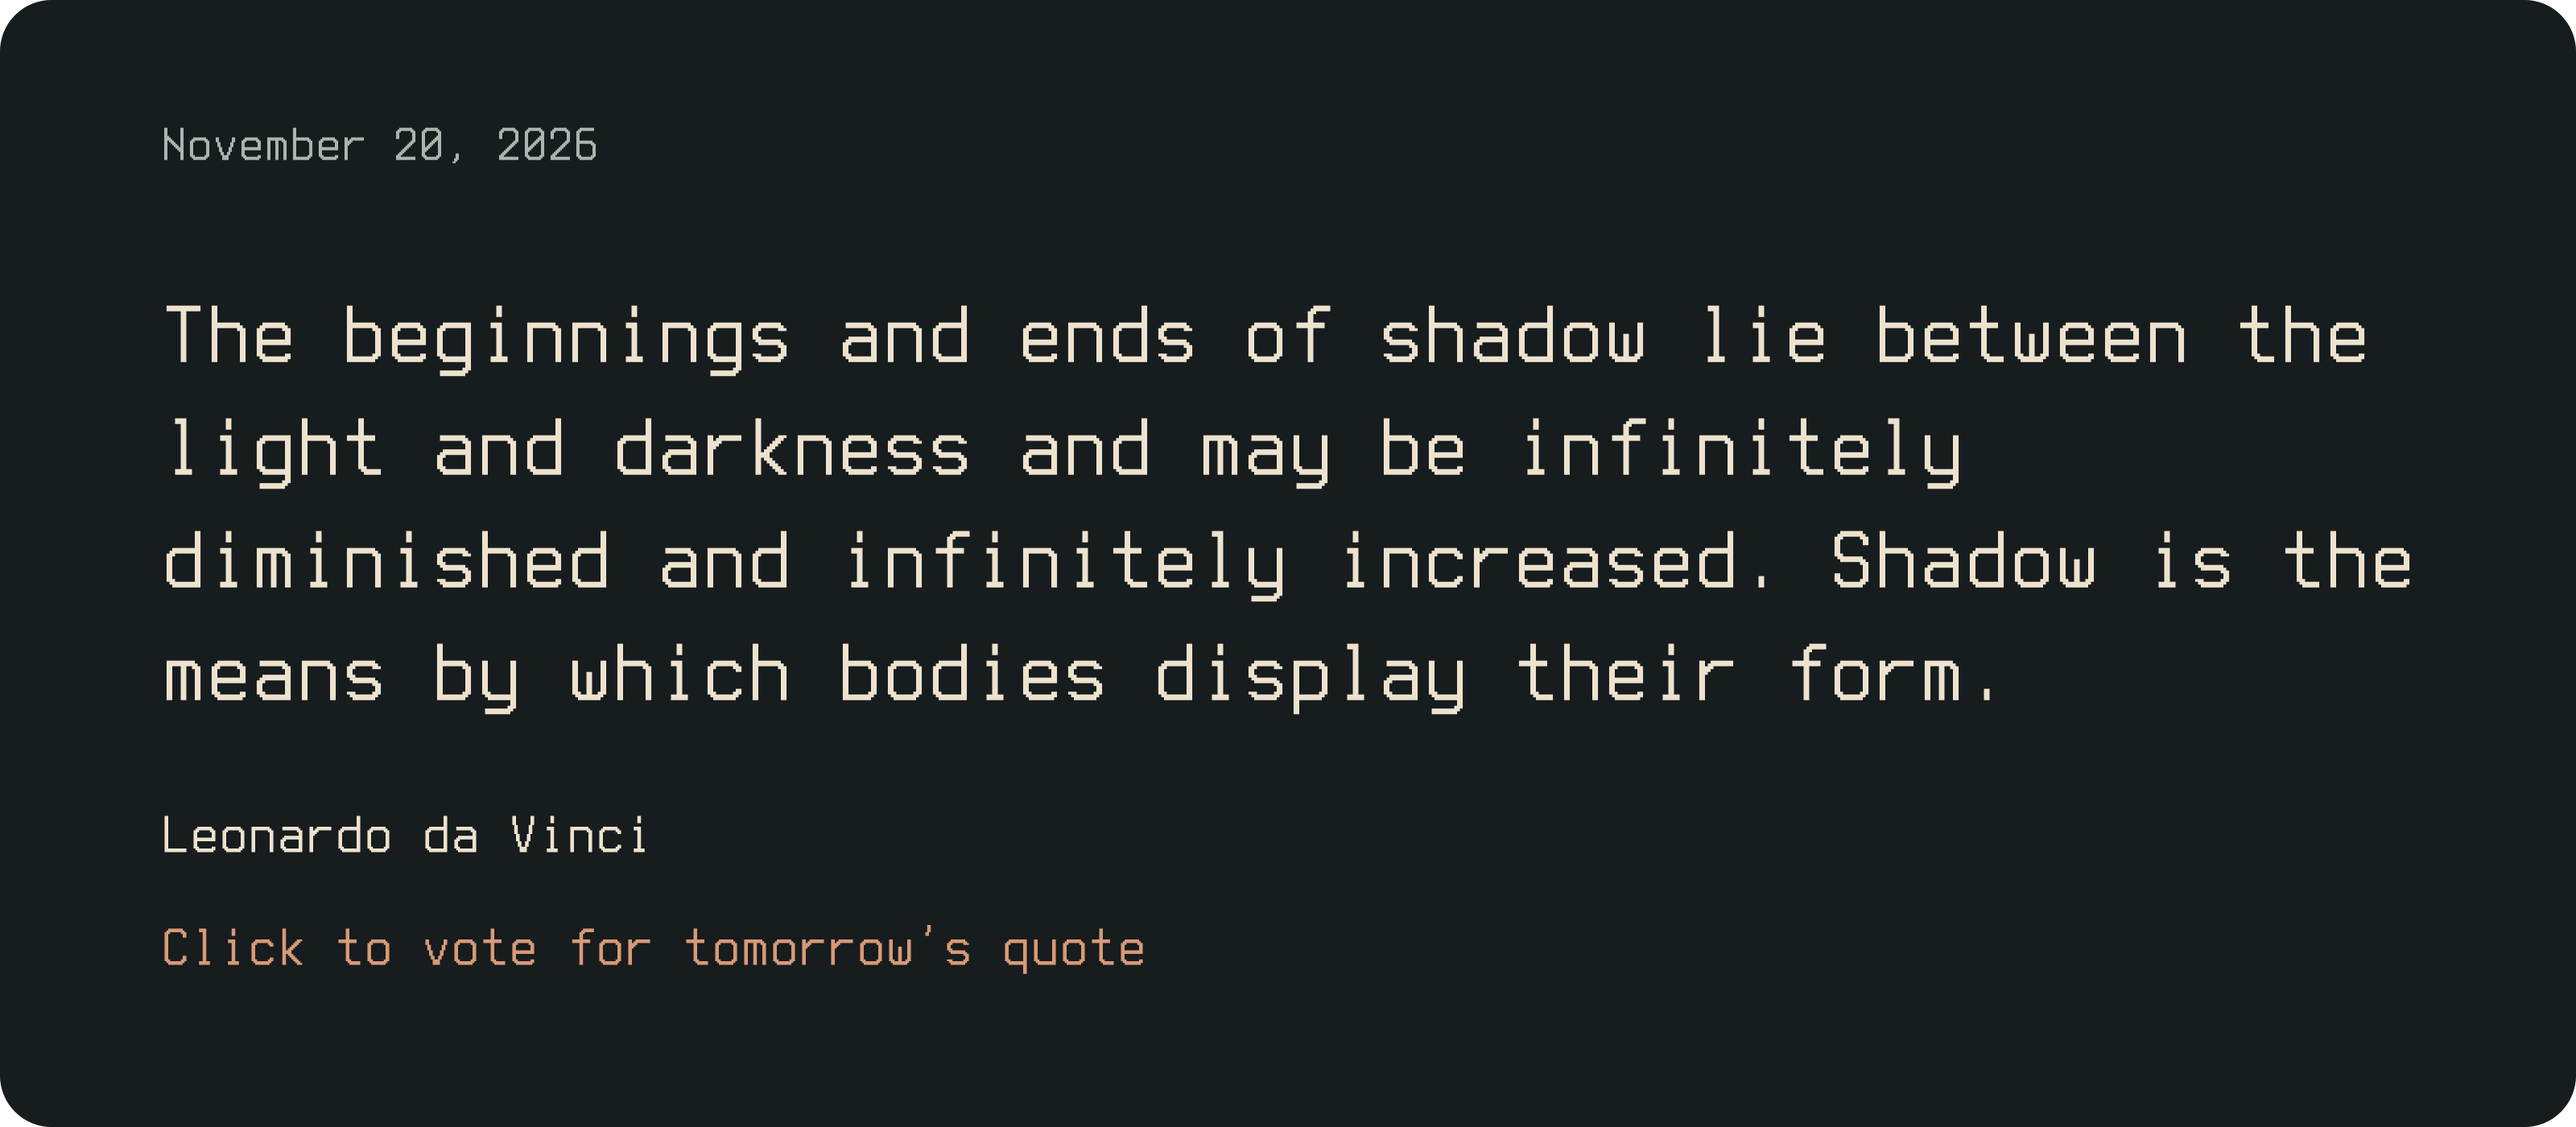
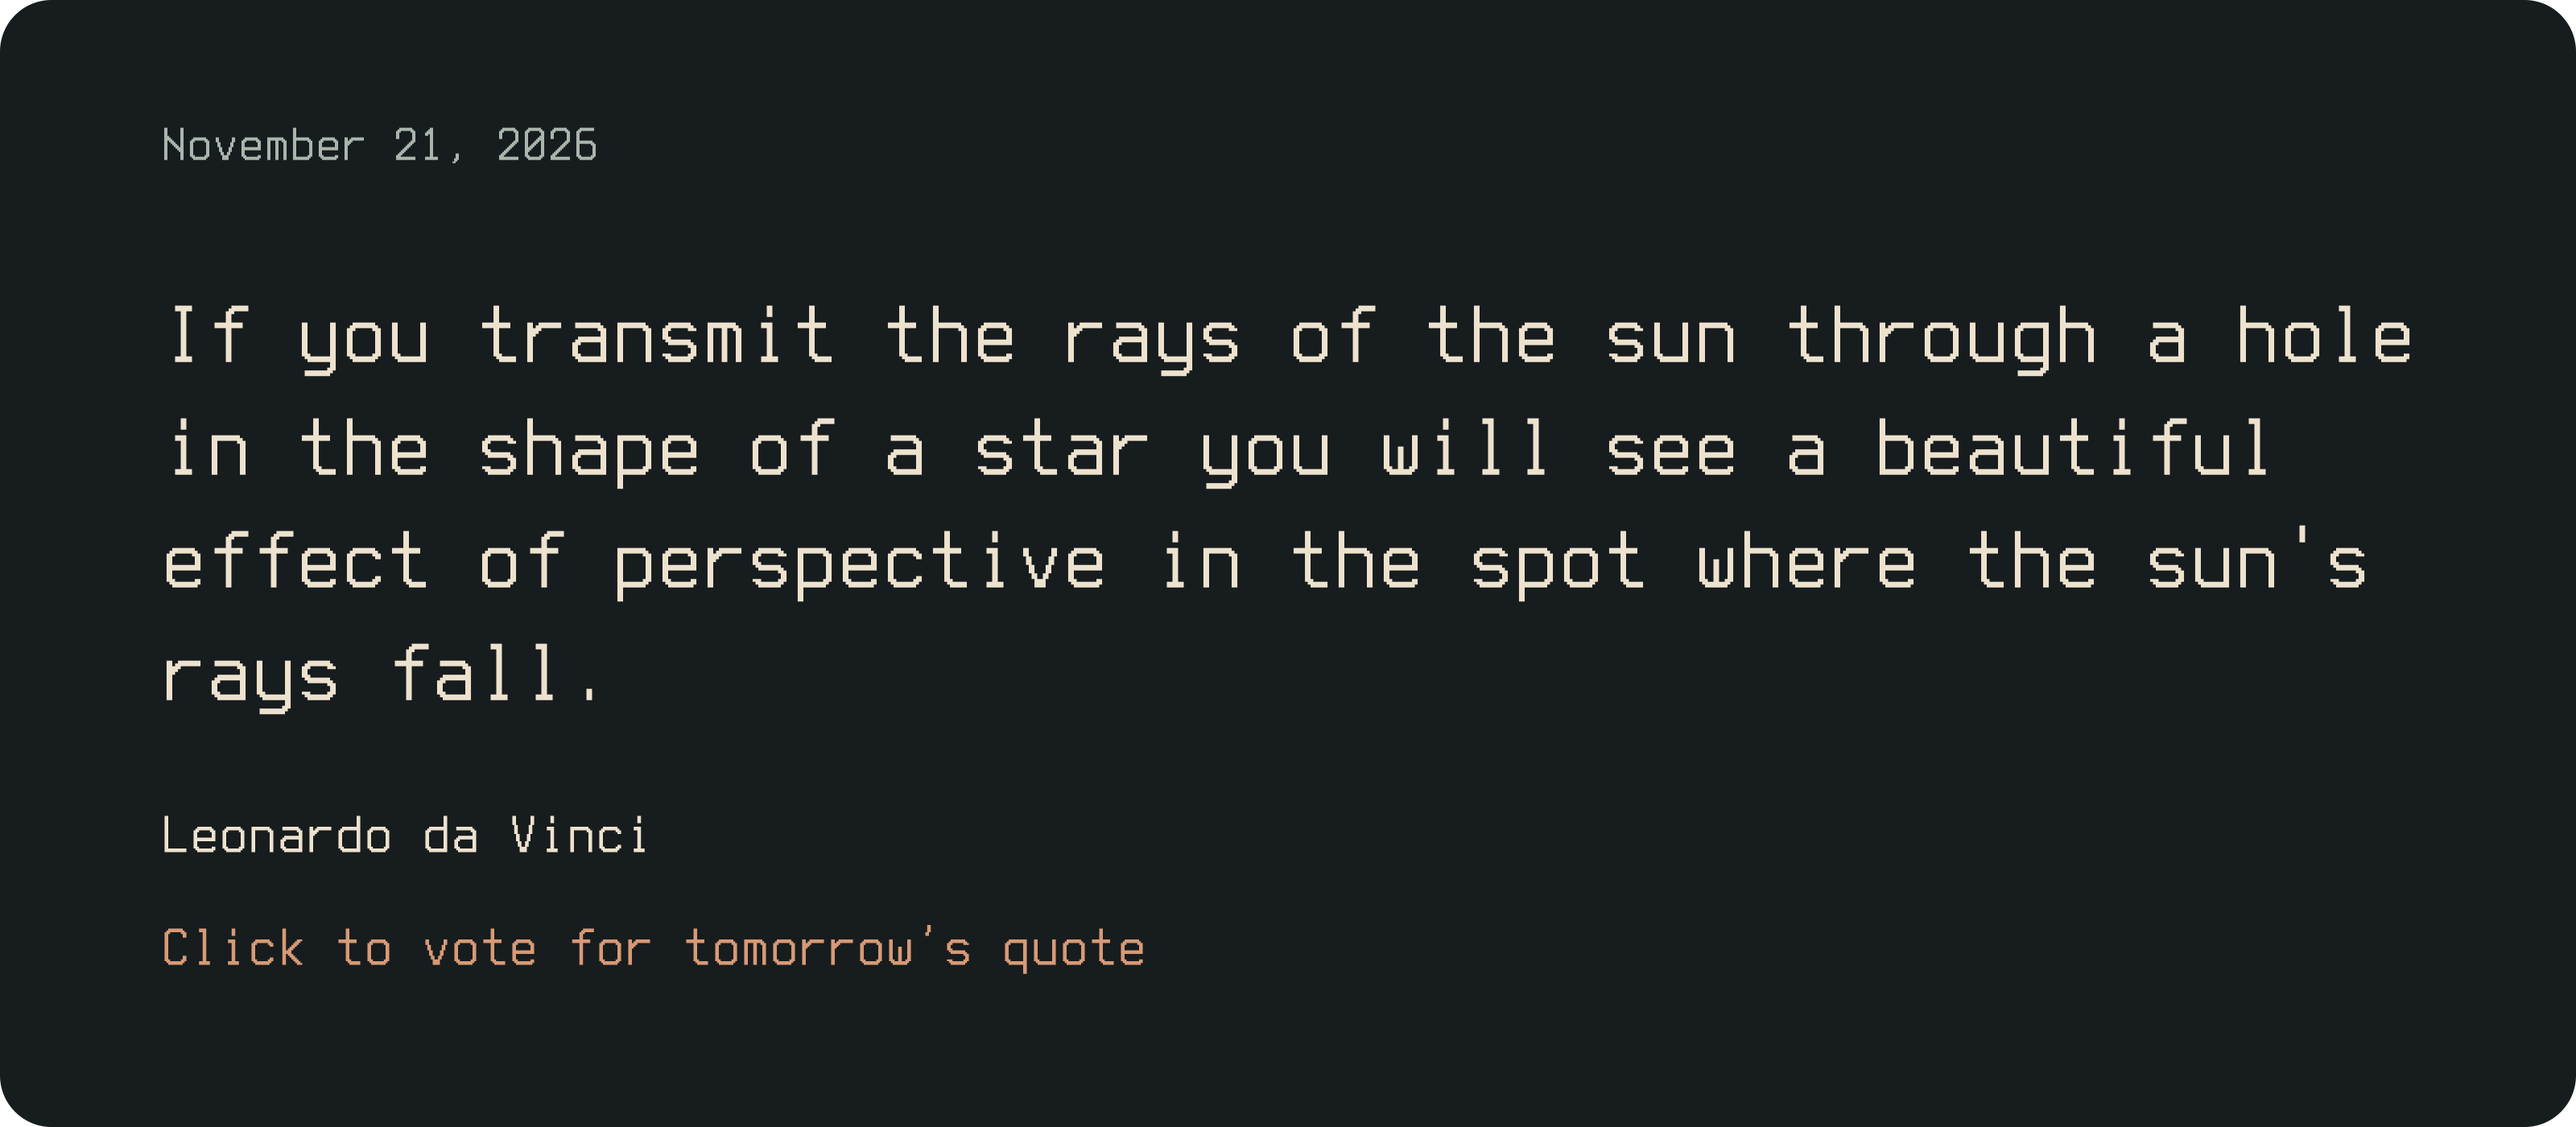
Update daily Leonardo passage

diff --git a/README.md b/README.md
@@ -1,1 +1,1 @@
-<a href="https://profile.epicliem.com" title="Choose tomorrow’s Leonardo da Vinci quote"><img src="./images/quote-69e2790282e8.svg" alt="2026-11-20. The beginnings and ends of shadow lie between the light and darkness and may be infinitely diminished and infinitely increased. Shadow is the means by which bodies display their form. — Leonardo da Vinci. Click to vote for tomorrow’s quote." width="100%" /></a>
+<a href="https://profile.epicliem.com" title="Choose tomorrow’s Leonardo da Vinci quote"><img src="./images/quote-d25ca6472e10.svg" alt="2026-11-21. If you transmit the rays of the sun through a hole in the shape of a star you will see a beautiful effect of perspective in the spot where the sun's rays fall. — Leonardo da Vinci. Click to vote for tomorrow’s quote." width="100%" /></a>
